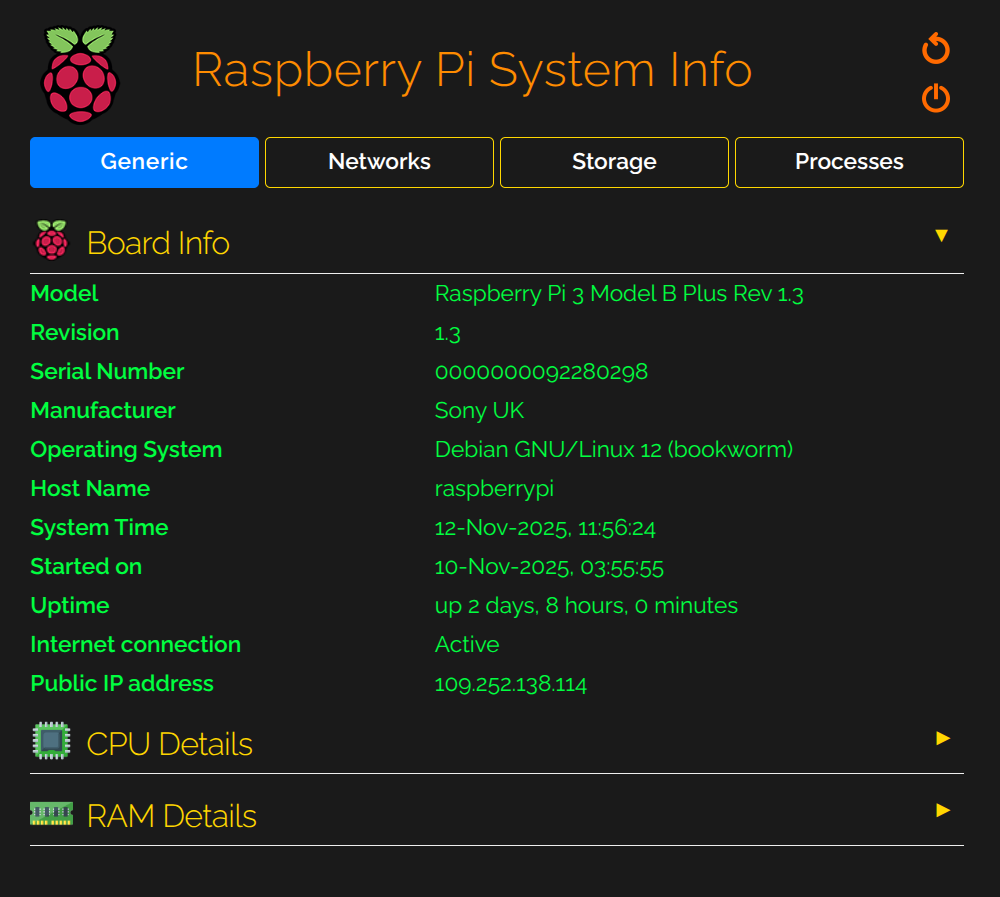
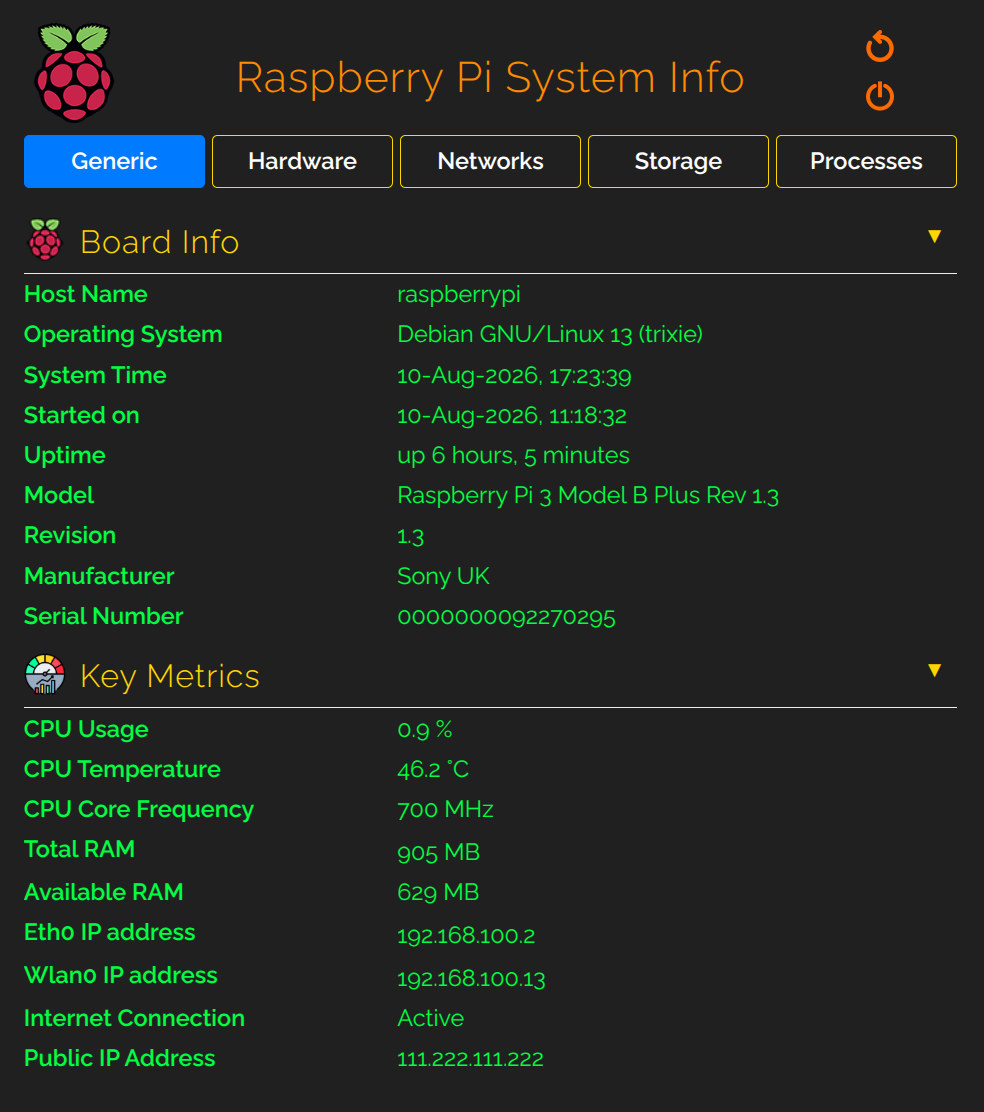
docs: updated README.md

diff --git a/README.md b/README.md
@@ -1,6 +1,7 @@
 # RPi System Info
 
 [![Raspberry Pi](https://img.shields.io/badge/Raspberry%20Pi-A22846.svg?logo=Raspberry-Pi)](https://www.raspberrypi.com/)
+[![Flask](https://img.shields.io/badge/Flask-web%20app-000000.svg?logo=flask&logoColor=white)](https://flask.palletsprojects.com/)
 ![Python](https://img.shields.io/badge/python-3.11%2B-blue.svg)
 [![Checked with mypy](http://www.mypy-lang.org/static/mypy_badge.svg)](https://mypy-lang.org/)
 [![license](https://img.shields.io/badge/licence-MIT-green.svg)](https://opensource.org/licenses/MIT)
@@ -14,25 +15,30 @@ This project is a simple web server that displays system information about your 
 
 The interface is divided into 4 tabs:
 - 1⃣  *General*: 
-    - Board info (model, revision, manufacturer, OS name, host name, system time and uptime, internet connection status and public IP if connections is active).
-    - CPU details (model, architecture, cores count, cores frequency, cores voltage, temperature, usage, cache sizes).
-    - RAM details (size, total, used, free, cache, available).
-- 2⃣  *Networks*:
-    - Ethernet adapter details (MAC and IP adresses, default gateway, network mask, broadcast IP adress).
-    - Wi-Fi afapter details (MAC and IP adresses, default gateway, network mask, broadcast IP adress).
-    - Available Wi-Fi networks (SSID, channel, rate, signal, bars, security). If the networkы list only shows the network the Raspberry Pi is connected to, you need to force a scan using the `sudo nmcli dev wifi rescan` command. This will be fixed in future versions.
-    - Bluetooth details (MAC address).
-- 3⃣  *Storage*:
-    - Disks usage details (file system, size, used, available, used%, mounted on).
-    - SD card details (name, device, serial number, manufacturer id, registers info and other).
-    - Disks inodes details (file system, inodes, used, free, used%, mounted on).
-- 4⃣  *Processes*: shows only running tasks (user, PID, CPU%, MEM%, command, started on time).
+    - Board Info: host name, operating system, system time and uptime, model, revision, manufacturer, serial number. 
+    - Key Metrics: CPU usage, CPU temperature, CPU core frequency, total RAM, available RAM, Eth0 and Wlan0 interfaces IP addresses, internet connection status and public IP (if connections is active).
+- 2⃣  *Hardware*:
+    - CPU Info: model, architecture, cores count, cores frequency (current, min, max), cores voltage, temperature, usage, cache sizes, overvoltage allowed, OTP programming allowed, OTP reading allowed).
+    - RAM Info: size, total, used, free, cache, available.
+    - GPU Info: memory size (from RAM), codecs status (for MPG2, WVC1, MPG4, MJPG, WMV9).
+- 3⃣  *Networks*:
+    - Ethernet Adapter Info for Eth0 interface: MAC and IP adresses, default gateway, network mask, broadcast IP adress.
+    - Wi-Fi Afapter Info for Wlan0 interface: MAC and IP adresses, default gateway, network mask, broadcast IP adress, Wi-Fi network name (if connected).
+    - Available Wi-Fi Networks: SSID, channel, rate, signal, bars, security). If the networks list only shows the network the Raspberry Pi is connected to, you need to force a scan using the `sudo nmcli dev wifi rescan` command. This will be fixed in future versions.
+    - Bluetooth Adapter Info (for hci0 interface): MAC address.
+- 4⃣  *Storage*:
+    - SD Card Info: name, device, serial number, manufacturer id, registers info and other.
+    - Disks Usage Info: file system, size, used, available, used%, mounted on.
+    - Disks Inodes Info: file system, inodes, used, free, used%, mounted on.
+- 5⃣  *Processes*:
+    - Running Processes Info: shows only running tasks (user, PID, CPU%, MEM%, command, started on time).
+    - Tmux Sessions Info: show active tmux sessions info (name, windows in the session, created time).
 
 The contents of the tabs are loaded dynamically when they are opened.
 
 Some information is parsed from the device's [revision code](https://www.raspberrypi.com/documentation/computers/raspberry-pi.html#raspberry-pi-revision-codes) located in /proc/cpuinfo.
 
-Information about disks and processes is presented in the form of tables. You can sort the tables by clicking on the column in the header.
+Information about Wi-Fi networks, disks, processes, tmux sesions is presented in the form of tables. You can sort the tables by clicking on the column in the header.
 
 The web server is based on Flask framework. By default the application will run on port 8080. It can be changed in env file. Gunicorn is used to launch.
 
